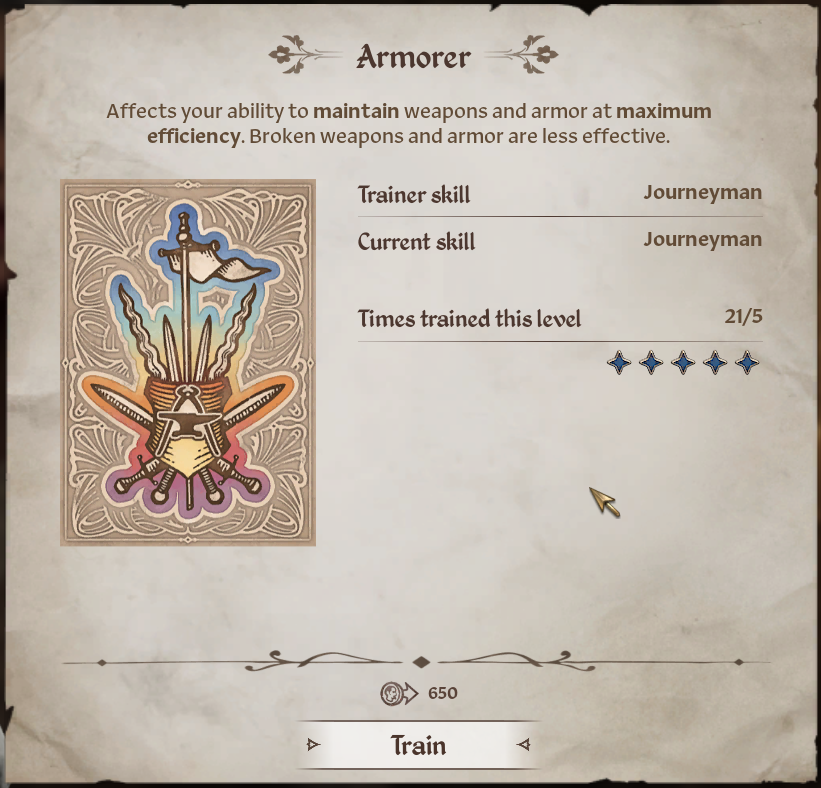
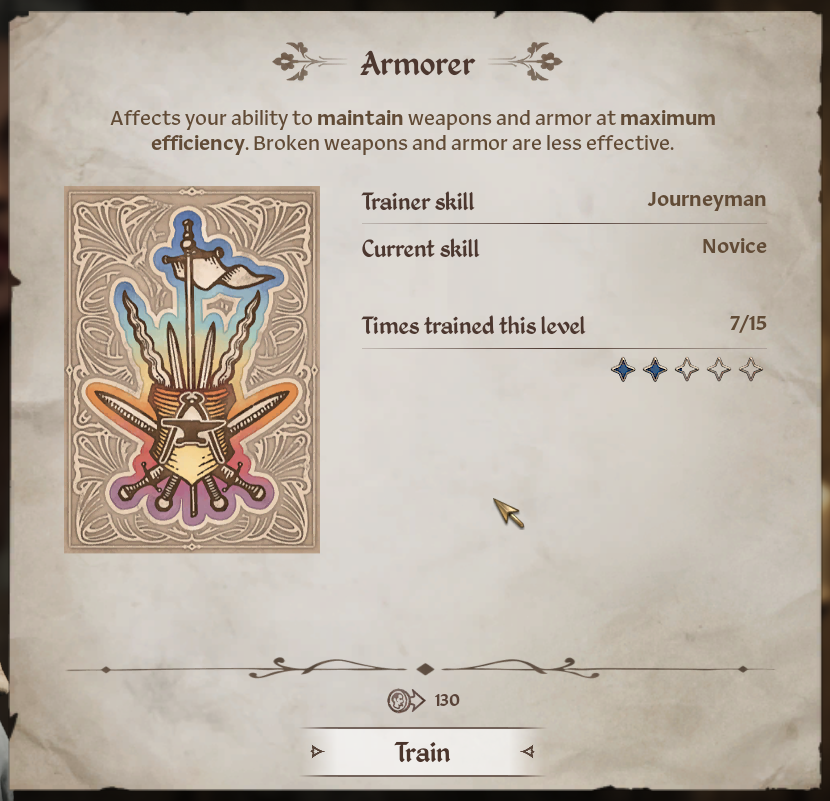
Correct level + misc

diff --git a/dllmain.cpp b/dllmain.cpp
@@ -42,9 +42,19 @@ static float* gTrainingCostMult = nullptr;
 
 static int gMaxTrainingThisLevel = 5;
 
+static byte GetPlayerLevel(PlayerCharacter* player)
+{
+    struct TESObjectNPC
+    {
+        byte pad[0x5A];
+        short level;
+    };
+    return reinterpret_cast<TESObjectNPC*>(player->GetBaseForm())->level;
+}
+
 static int GetMaxTrainingSessionsInitial(PlayerCharacter* player)
 {
-    gMaxTrainingThisLevel = (*gTrainingPerLevel * (player->level + 1)) - player->timesTrainedTotal + player->timesTrainedThisLevel;
+    gMaxTrainingThisLevel = (*gTrainingPerLevel * GetPlayerLevel(player)) - player->timesTrainedTotal + player->timesTrainedThisLevel;
     return gMaxTrainingThisLevel;
 }
 
@@ -59,7 +69,7 @@ static float GetTrainingCost(float skillActorValue)
 
     float defaultCost = *gTrainingCostMult * skillActorValue;
 
-    if (player->timesTrainedTotal >= (*gTrainingPerLevel * (player->level + 1)))
+    if (player->timesTrainedTotal >= (*gTrainingPerLevel * GetPlayerLevel(player)))
         defaultCost *= gOverCapTrainingCostMult;
 
     return defaultCost;
@@ -111,8 +121,6 @@ static bool ApplyPatch()
 
     if (readSuccess)
     {
-        // offsetTrainingLimit1 + *(offsetTrainingLimit1 + 2) + 6
-
         // Initial comparison.
         short sigTrainingLimit1[]
         {
